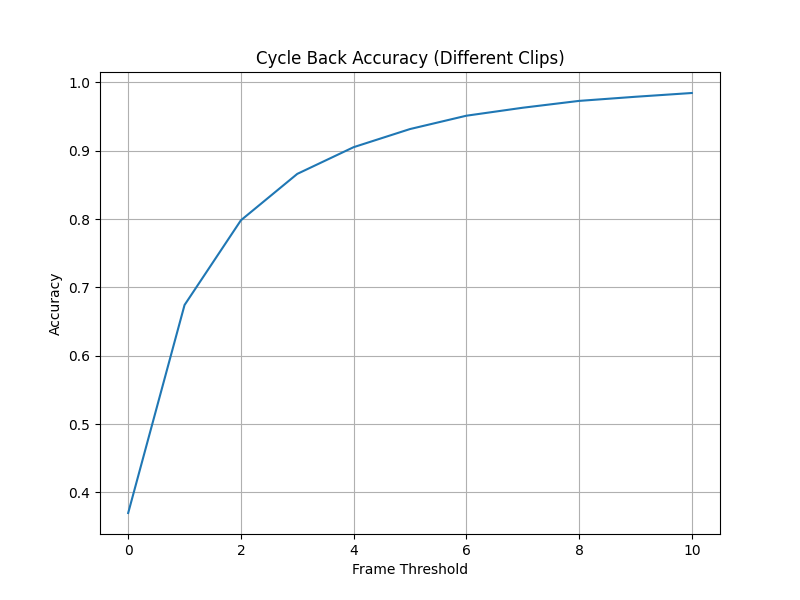
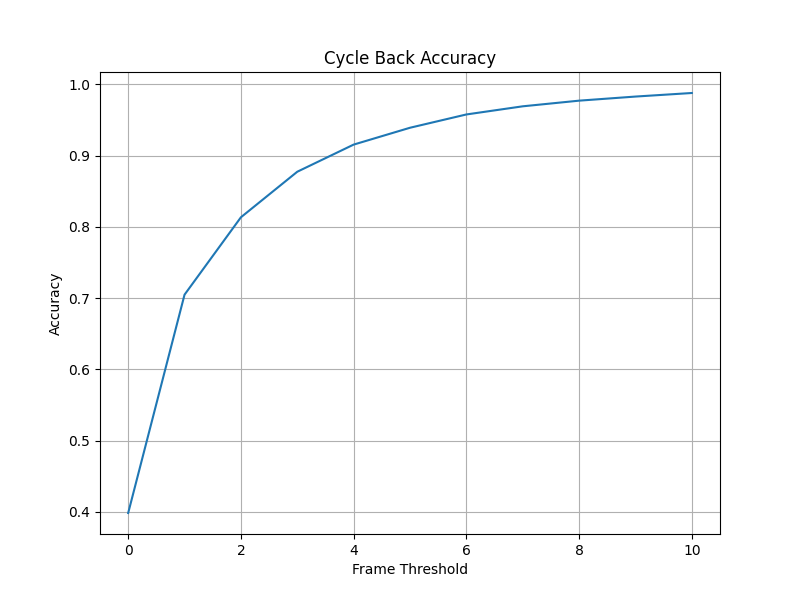
Code for nearest neighbor, TCC, and checkpoint evaluation

diff --git a/scripts/feature_matching_viz.py b/scripts/feature_matching_viz.py
@@ -133,61 +133,27 @@ def label_dataset(cfg: DictConfig):
     )
     pipeline = nn.Sequential(Tr.CenterCrop((112, 112)), normalize)
 
-    clip_list = [20, 150, 247]
-
-    correct_thresholds = [0, 1, 2, 3, 4, 5, 6, 7, 8, 9, 10]
-
-    tasks_list = json.load(open(f'{cfg.data_path}/task_completions.json'))
-    count = 0
-    res = [0 for _ in range(11)]
+    T = 50
+    threshold = 20
     for clip_num in range(0, 251, 25):
-        count += 1
-        robot_clip_traj, robot_z = traj_representations(cfg, model, pipeline, 'robot', clip_num)
-        human_clip_traj, human_z = traj_representations(cfg, model, pipeline, 'human', clip_num)
-        dists = torch.cdist(robot_clip_traj, human_clip_traj, p=2)
+        robot_clip_traj, _ = traj_representations(cfg, model, pipeline, 'robot', clip_num)
+        human_clip_traj, _ = traj_representations(cfg, model, pipeline, 'human', clip_num)
+        dists_bw_robot_human = torch.cdist(robot_clip_traj, human_clip_traj, p=2)[T]
+        dists_bw_robot_robot = torch.cdist(robot_clip_traj, robot_clip_traj, p=2)[T]
 
-        closest_to_robot = torch.argmin(dists, dim=1)
-        closest_to_human = torch.argmin(dists, dim=0)
+        # ignore frames within a threshold
+        dists_bw_robot_human[[np.arange(T-threshold, T+threshold)]] = float('inf')
+        dists_bw_robot_robot[[np.arange(T-threshold, T+threshold)]] = float('inf')
 
-        cycled_back = closest_to_human[closest_to_robot]
-
-        diffs = torch.abs(cycled_back - torch.arange(cycled_back.shape[0], device = cfg.device))
-
-        for i, thresh in enumerate(correct_thresholds):
-            correct_class = diffs <= thresh
-            acc = correct_class.sum() / correct_class.shape[0]
-            # print(f'Threshold {thresh}: {acc.item()}')
-            res[i] += acc.item()
+        closest_human_frame = torch.argmin(dists_bw_robot_human).item()
+        closest_robot_frame = torch.argmin(dists_bw_robot_robot).item()
 
         if cfg.save_clips:
-            frame_num = torch.argmax(diffs[20:-20]).item() # ignores frames at the very beginning and end of the episode to see more interesting results
-            output_dir = f'gif_outputs3/{clip_num}_{frame_num}'
+            output_dir = f'gif_outputs2/{clip_num}_{T}'
             os.makedirs(output_dir, exist_ok=True)
-            robot_gif = gif_of_clip(cfg, 'robot', clip_num, frame_num, 8, output_dir)
-            human_gif = gif_of_clip(cfg, 'human', clip_num, closest_to_robot[frame_num], 8, output_dir)
-            returned_robot_gif = gif_of_clip(cfg, 'robot', clip_num, closest_to_human[closest_to_robot[frame_num]], 8, output_dir, cycle=True)
-            dictionary = {
-                'robot_clip_num': clip_num,
-                'human_clip_num': clip_num,
-                'robot_clip_tasks': tasks_list[clip_num],
-                'human_clip_tasks': tasks_list[clip_num]
-            }
-            with open(os.path.join(output_dir, "output.json"), "w") as outfile:
-                json.dump(dictionary, outfile)
-
-    res = np.array(res)
-    res = res / count
-    print(res)
-
-    plt.figure(figsize=(8, 6))
-    plt.plot(correct_thresholds, res)
-    plt.title('Cycle Back Accuracy')
-    plt.xlabel('Frame Threshold')
-    plt.ylabel('Accuracy')
-    plt.grid(True)
-    plt.savefig('bruh.png')
-
-
+            robot_gif = gif_of_clip(cfg, 'robot', clip_num, T, 8, output_dir)
+            human_gif = gif_of_clip(cfg, 'human', clip_num, closest_human_frame, 8, output_dir)
+            returned_robot_gif = gif_of_clip(cfg, 'robot', clip_num, closest_robot_frame, 8, output_dir)
 
 
 if __name__ == "__main__":

diff --git a/scripts/eval_checkpoint.py b/scripts/eval_checkpoint.py
@@ -89,31 +89,44 @@ def main(cfg: DictConfig):
     
     eval_eps = np.arange(len(eval_mask))[eval_mask]
 
-    robot_res = 0
-    human_res = 0
+    result_dict = {
+        'robot':{},
+        'human':{}
+    }
+
+    speeds = {
+        'robot': [1],
+        'human': [1, 1.3, 1.5]
+    }
+
     for demo_type in ['robot', 'human']:
         cfg.eval_cfg.demo_type = demo_type
-        for seed in eval_eps:
-            cfg.eval_cfg.demo_item = seed.item()
-            num_completed, _ = eval_callback.eval(
-                nets,
-                noise_scheduler,
-                stats,
-                cfg.eval_cfg,
-                save_dir,
-                seed,
-                epoch_num=None
-            )
-            if demo_type == 'robot':
-                robot_res += num_completed
-            else: 
-                human_res += num_completed
-    print('Robot')
-    print(robot_res)
-    print(robot_res / (4*len(eval_eps)))
-    print('Human')
-    print(human_res)
-    print(human_res / (4*len(eval_eps)))
+        for speed in speeds[demo_type]:
+            eval_callback.task_progess_ratio = speed
+            tasks_completed = 0
+            for seed in eval_eps:
+                cfg.eval_cfg.demo_item = seed.item()
+                num_completed, _ = eval_callback.eval(
+                    nets,
+                    noise_scheduler,
+                    stats,
+                    cfg.eval_cfg,
+                    save_dir,
+                    seed,
+                    epoch_num=None
+                )
+                tasks_completed += num_completed
+            result_dict[demo_type][f'{speed}'] = tasks_completed / (4*len(eval_eps))
+    
+    with open("output.json", "w") as outfile:
+        json.dump(result_dict, outfile)
+            
+    # print('Robot')
+    # print(robot_res)
+    # print(robot_res / (4*len(eval_eps)))
+    # print('Human')
+    # print(human_res)
+    # print(human_res / (4*len(eval_eps)))
 
 if __name__ == '__main__':
     main()

diff --git a/scripts/plot_protos.py b/scripts/plot_protos.py
@@ -1,0 +1,34 @@
+import pandas as pd
+import matplotlib.pyplot as plt
+
+# Create DataFrame from CSV data
+df = pd.read_csv('/share/portal/pd337/xskill/experiment/pretrain/orig_batch/robot_proto_task_relation_79.csv')
+
+# Filter data for tasks 'kettle', 'microwave', 'hinge cabinet', and 'your_task'
+tasks_of_interest = ['kettle', 'microwave', 'hinge cabinet', 'slide cabinet']
+filtered_df = df[df['task'].isin(tasks_of_interest)]
+
+grouped_df = filtered_df.groupby(['task', 'max_proto']).size().reset_index(name='count')
+
+# Get unique tasks
+tasks = grouped_df['task'].unique()
+
+# Define colors for each task
+colors = {'kettle': 'blue', 'microwave': 'black', 'hinge cabinet': 'red', 'slide cabinet': 'orange'}
+
+# Plot counts for each task
+plt.figure(figsize=(10, 6))
+for task in tasks:
+    task_data = grouped_df[grouped_df['task'] == task]
+    task_data_sorted = task_data.sort_values(by='count', ascending=False).head(5)  # Select top 5 most frequent max_proto
+    task_data_sorted = task_data_sorted.sort_values(by='max_proto', ascending=True)
+    plt.scatter(task_data_sorted['max_proto'], task_data_sorted['count'], label=task, color=colors[task], s=100)  # Increase the size of dots
+
+plt.title('Count of max_proto Numbers for Each Task (Top 5) - ROBOT')
+plt.xlabel('max_proto')
+plt.ylabel('Count')
+plt.legend(title='Task')
+plt.grid(True)
+plt.tight_layout()
+plt.savefig('robot.png')
+plt.show()
